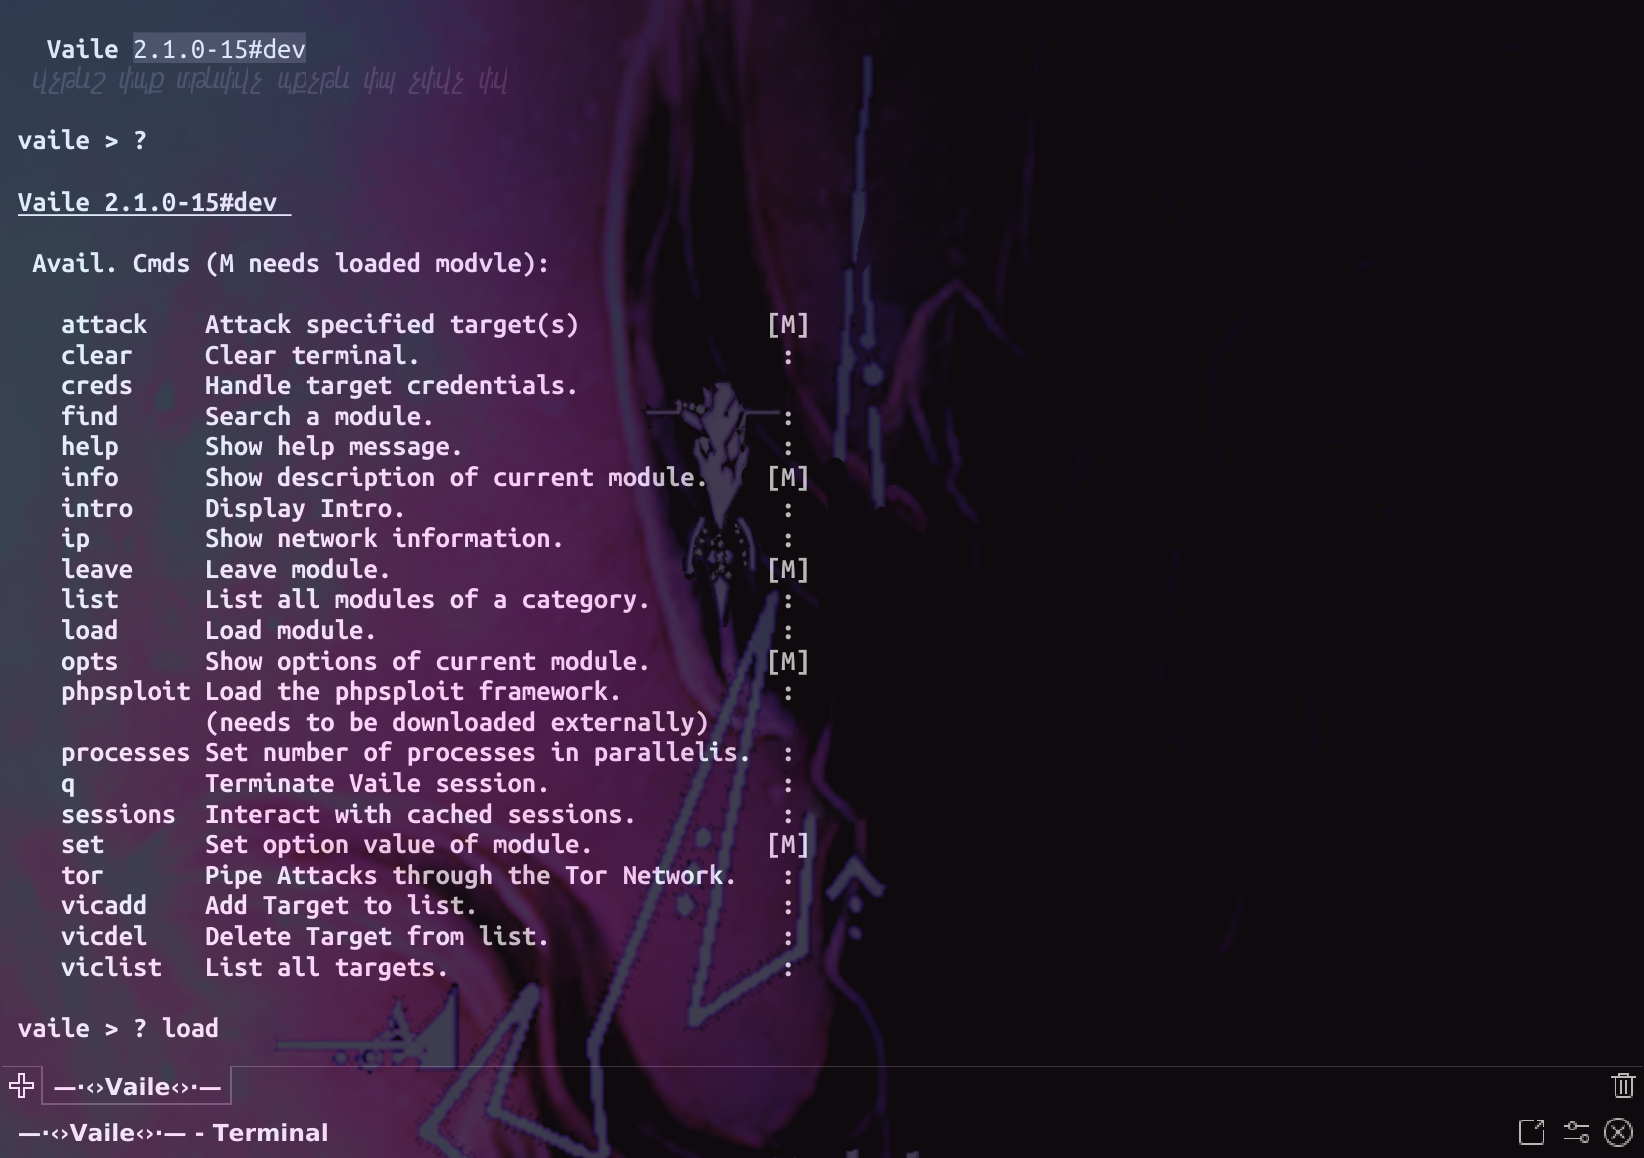
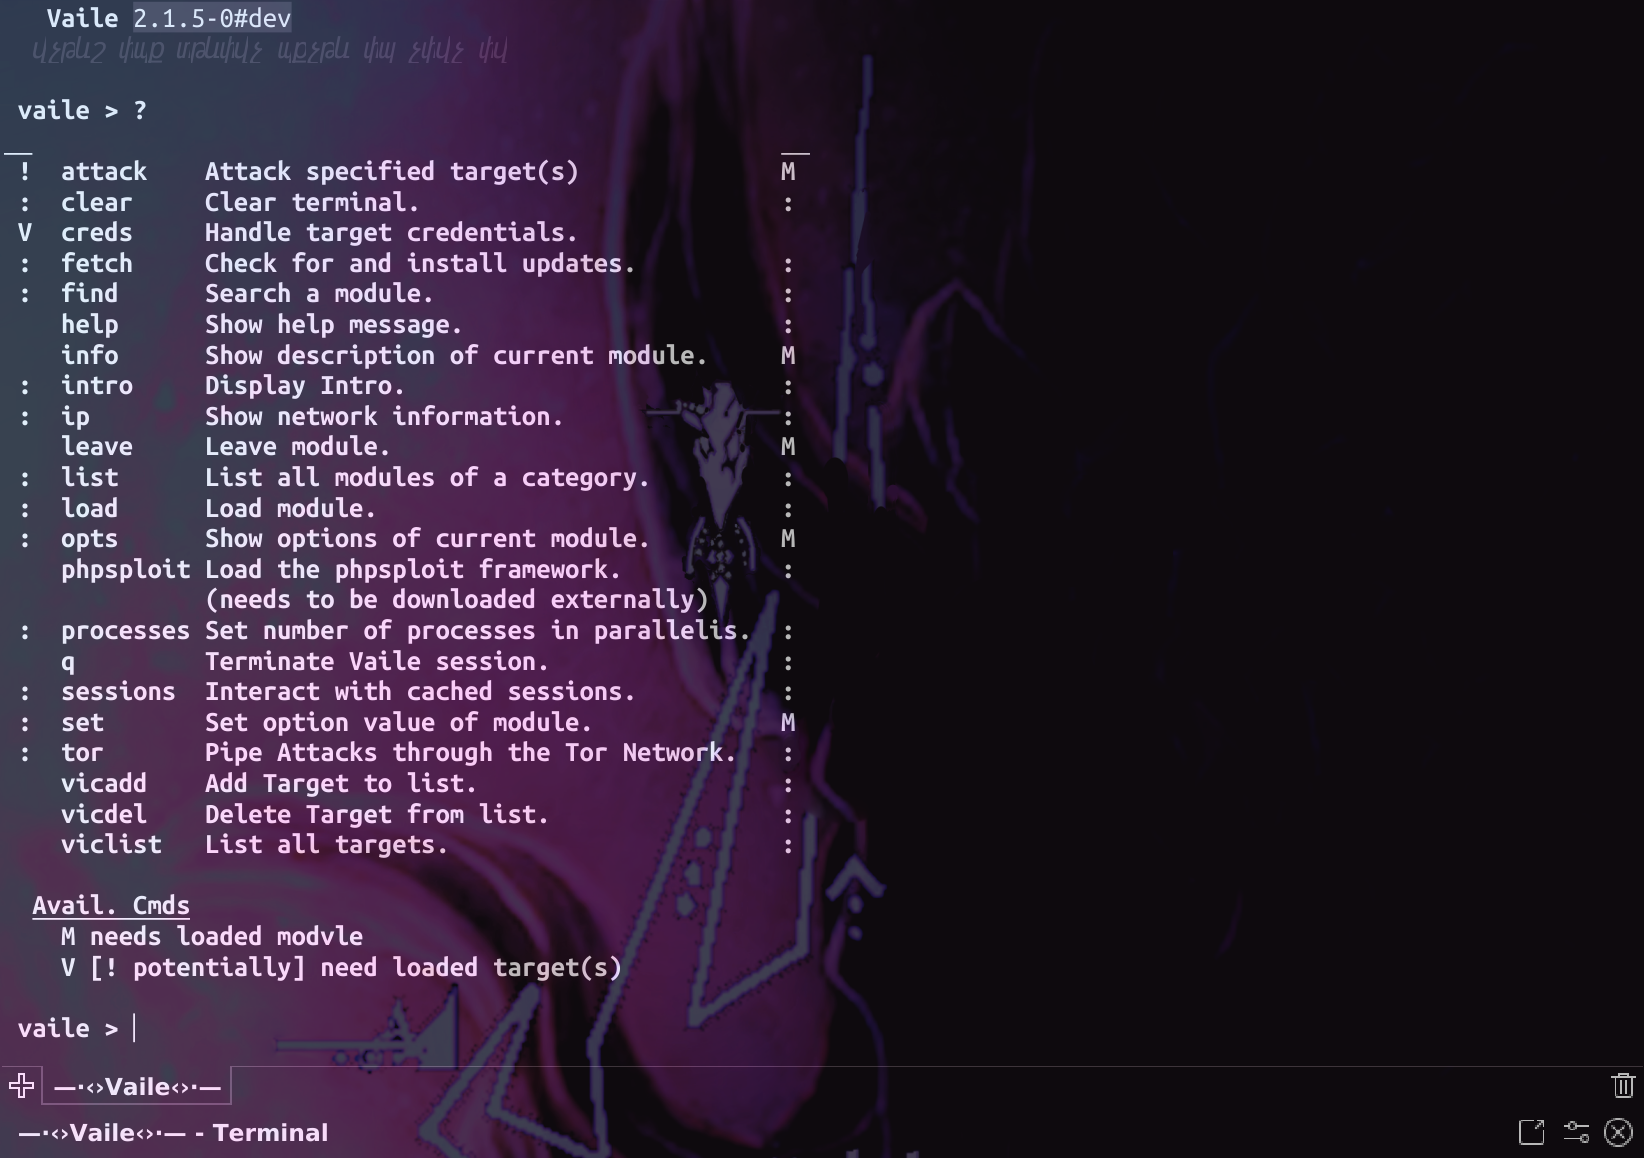
Vaile 2.1.5-0 #fix import errors in automation modules

diff --git a/core/methods/select.py b/core/methods/select.py
@@ -199,7 +199,8 @@ def list(arg,display):
                     "__init__" not in module2 and "colors" not in module2 and "wafimpo" not in module2 and "DNSDumpsterAPI" not in module2 and "Form" not in module2 and "uri" not in module2 and "Crawler" not in module2 and "subdom0x00" not in module2 and "errorsql" not in module2 and "blindsql" not in module2 and "files.subdom" not in module2 and "fileo.subdom" not in module2 and "signatures" not in module2):
                 j = imp.import_module(module2)
                 i = j.searchinfo
-                names.append(module2.split(".")[-1])
+                #names.append(module2.split(".")[-1])
+                names.append(module2)
                 descs.append(i)
                 if "ActiveRecon" in module2:
                     activenames.append(module2.split(".")[-1])
@@ -288,6 +289,29 @@ def search(inp):
     names = []
     descs = []
 
+    passivenames = []
+    passivedescs = []
+    activenames = []
+    activedescs = []
+    discnames = []
+    discdescs = []
+    scannames = []
+    scandescs = []
+    portnames = []
+    portdescs = []
+    crawlnames = []
+    crawldescs = []
+    misnames = []
+    misdescs = []
+    brutenames = []
+    brutedescs = []
+    severenames = []
+    severedescs = []
+    sploitnames = []
+    sploitdescs = []
+    aidnames = []
+    aiddescs = []
+
     def filematch(id, filenames):
         patt = '.*{}.*'.format(id)
         found = []
@@ -344,18 +368,85 @@ def search(inp):
                     i = j.searchinfo
                     names.append(parsedfile.split(".")[-1])
                     descs.append(i)
+                    if "ActiveRecon" in parsedfile:
+                        activenames.append(parsedfile.split(".")[-1])
+                        activedescs.append(i)
+                    elif "PassiveRecon" in parsedfile:
+                        passivenames.append(parsedfile.split(".")[-1])
+                        passivedescs.append(i)
+                    elif "InfoDisclose" in parsedfile:
+                        discnames.append(parsedfile.split(".")[-1])
+                        discdescs.append(i)
+                    elif "ScanningEnumeration" in parsedfile and "0x01-PortScanning" not in parsedfile and "0x02-WebCrawling" not in parsedfile:
+                        scannames.append(parsedfile.split(".")[-1])
+                        scandescs.append(i)
+                    elif "ScanningEnumeration" in parsedfile and "0x01-PortScanning" in parsedfile:
+                        portnames.append(parsedfile.split(".")[-1])
+                        portdescs.append(i)
+                    elif "ScanningEnumeration" in parsedfile and "0x02-WebCrawling" in parsedfile:
+                        crawlnames.append(parsedfile.split(".")[-1])
+                        crawldescs.append(i)
+                    elif "PassiveRecon" in parsedfile:
+                        names.append(parsedfile.split(".")[-1])
+                        descs.append(i)
+                    elif "SploitLoot" in parsedfile:
+                        sploitnames.append(parsedfile.split(".")[-1])
+                        sploitdescs.append(i)
+                    elif "Aid" in parsedfile:
+                        aidnames.append(parsedfile.split(".")[-1])
+                        aiddescs.append(i)
+                    elif "VlnAnalysis.Severe" in parsedfile:
+                        severenames.append(parsedfile.split(".")[-1])
+                        severedescs.append(i)
+                    elif "VlnAnalysis.Other" in parsedfile:
+                        brutenames.append(parsedfile.split(".")[-1])
+                        brutedescs.append(i)
+                    elif "VlnAnalysis.Misconfig" in parsedfile:
+                        misnames.append(parsedfile.split(".")[-1])
+                        misdescs.append(i)
             except ImportError:
                 pass
 
-    t = table.Texttable()
-    headings = ["Modvle", "Desc."]
-    t.header(headings)
-    t.set_chars(["—","|","+","—"])
-    t.set_deco(table.Texttable.HEADER)
-    for row in zip(names, descs):
-        t.add_row(row)
-    s = t.draw()
-    print("\n" + s + "\n")
+    if len(passivenames) > 0 or len(activenames) > 0 or len(discdescs) > 0:
+        prnt.posint("Phase 1")
+        if len(passivenames) > 0:
+            cprint("OSINT/Footprinting: ","Passive Recon")
+            listdisplay(passivenames, passivedescs)
+        if len(activenames) > 0:
+            cprint("OSINT/Footprinting: ","Active Recon")
+            listdisplay(activenames, activedescs)
+        if len(discnames) > 0:
+            cprint("OSINT/Footprinting: ","Information Disclosure")
+            listdisplay(discnames, discdescs)
+    if len(scannames) > 0 or len(portnames) > 0 or len(crawldescs) > 0:
+        prnt.pscan("Phase 2")
+        if len(scannames) > 0:
+            cprint("Scanning/Enumeration: ","General Scanning")
+            listdisplay(scannames, scandescs)
+        if len(portnames) > 0:
+            cprint("Scanning/Enumeration: ","Port Scanners")
+            listdisplay(portnames, portdescs)
+        if len(crawldescs) > 0:
+            cprint("Scanning/Enumeration: ","Web Crawlers")
+            listdisplay(crawlnames, crawldescs)
+    if len(severenames) > 0 or len(misnames) > 0 or len(brutedescs) > 0:
+        prnt.pvln("Phase 3")
+        if len(misnames) > 0:
+            cprint("Vulnerability Analysis: ","Misconfiguration")
+            listdisplay(misnames, misdescs)
+        if len(severenames) > 0:
+            cprint("Vulnerability Analysis: ","Severe Issues")
+            listdisplay(severenames, severedescs)
+        if len(brutedescs) > 0:
+            cprint("Vulnerability Analysis: ","Weak Credentials")
+            listdisplay(brutenames, brutedescs)
+    if len(sploitdescs) > 0:
+        prnt.psploit("Phase 4")
+        cprint("Exploitation: ","Exploits")
+        listdisplay(sploitnames, sploitdescs)
+    if len(aidnames) > 0:
+        print("\nAdditional Modules")
+        listdisplay(aidnames, aiddescs)
 
 def bareimport(inp):
     success = False

diff --git a/core/methods/print.py b/core/methods/print.py
@@ -30,21 +30,60 @@ from core.Core.colors import *
 def loadstyle():
     os.system('clear')
     red_bold = R
-    reset = W
-    #loading = "Vaile Attack Load."
-    loading = "——·‹› Vaile ‹›·——"
+    cursive = color.END + "\033[3m"
+    reset = cursive
+    loading = "Loading console.."
+    swappy = "Loading console.."
+    display = """
+
+
+
+
+
+____, __{}
+   + ;    
+   .:,    
+     ’    
+    .     {}‹›{}  {}V A I L E{}  {}‹›{}
+    + ;   {}{}{}
+    ;.    
+     ;
+     ;
+     ’   
+    """.format(color.END, R, color.END, RB, color.END, R, C, cursive, swappy, color.END)
+    #loading = "——·‹› Vaile ‹›·——"
     action = 0
     while action < 2:
         for i, char in enumerate(loading):
             if i == 0:
-                print("%s%s%s%s" % (red_bold, char.swapcase(), reset, loading[1:]))
+                swappy = "%s%s%s%s" % (red_bold, char.swapcase(), reset, loading[1:])
+                #print("%s%s%s%s" % (red_bold, char.swapcase(), reset, loading[1:]))
             elif i == 1:
                 old_loading = loading[0].swapcase()
-                print("%s%s%s%s%s" % (old_loading, red_bold, char.swapcase(), reset, loading[2:]))
+                swappy = "%s%s%s%s%s" % (old_loading, red_bold, char.swapcase(), reset, loading[2:])
+                #print("%s%s%s%s%s" % (old_loading, red_bold, char.swapcase(), reset, loading[2:]))
             elif i == i:
-                # old_loading = loading[-0:i].swapcase()
                 old_loading = loading[-0:i]
-                print("%s%s%s%s%s" % (old_loading, red_bold, char.swapcase(), reset, loading[i + 1:]))
+                swappy = "%s%s%s%s%s" % (old_loading, red_bold, char.swapcase(), reset, loading[i + 1:])
+                #print("%s%s%s%s%s" % (old_loading, red_bold, char.swapcase(), reset, loading[i + 1:]))
+            display = """
+
+
+
+
+
+____, __{}
+   + ;    
+   .:,    
+     ’    
+    .     {}‹›{}  {}V A I L E{}  {}‹›{}
+    + ;   {}{}{}
+    ;.    
+     ;
+     ;
+     ’   
+            """.format(color.END, R, color.END, RB, color.END, R, C, cursive, swappy, color.END)
+            print(display)
             time.sleep(0.1)
             os.system('clear')
         action += 1
@@ -297,11 +336,14 @@ def pbrute(mod):
 
 def pleak(mod):
     print("""
-▄▄ 
-██▌  {}I N F D I S C{}
-▐█·  
-.▀    {}{}{}
- ▀ 
+   ,_       
+ ,'  `\\,_   
+ |_,-'_)    
+ /##c '\\  (   {}I N F D I S C{}
+' |'  -{{.  )
+  /\\__-' \\[]        {}{}{}
+ /`-_`\\     
+ '     \\ 
 """.format(color.END, C, RC, title(mod), C))
 
 def cprint(text1, text2):

diff --git a/modules/Aid/honeypot.py b/modules/Aid/honeypot.py
@@ -10,7 +10,8 @@
 
 
 import socket
-import requests
+#import requests
+from core.methods.tor import session
 import time
 from core.Core.colors import *
 from files.API_KEYS import SHODAN_API_KEY
@@ -19,15 +20,30 @@ info = "This module calculates the probability that the target is a honeypot usi
 searchinfo = "HoneyScore Calculator"
 properties = {}
 
-def honeypot(web):
+def title():
+    print("""{}
+                __/   _
+        {}.__  __.{}  \\__/   __
+         {}.-`'-.{}   /  \\__/
+     {}.-.(  oo  ).-.{} _/  \\__/   {}H O N E Y P O T{}
+ __ {}:   \\".~~."/   ;{} \\__/
+/  \\_{}`.  Y`--'Y  .'{} _/  \\__   {}D E T E C T O R{}
+ __/  {}`./======\\.'{}   \\__/  \\_
+/  \\__/ {}\\======/{}  \\__/  \\__/
+\\__/   {}(_`----'_){}    \\__/  \\ ({}shodan{}){}
+    """.format(color.END,C, color.END,C, color.END,C, color.END,RC,color.END,C, color.END,C, color.END,RC,color.END,C, color.END,C, color.END,C, color.END,RB,color.END,C))
 
+
+def honeypot(web):
+    title()
     #print(R+'    ===================================')
-    print(R+'\n     H O N E Y P O T   D E T E C T O R')
-    print(R+'    ––·‹›·––·‹›·––·‹›·––·‹›·––·‹›·––·‹›')
+    #print(R+'\n     H O N E Y P O T   D E T E C T O R')
+    #print(R+'    ––·‹›·––·‹›·––·‹›·––·‹›·––·‹›·––·‹›')
                  
     print(GR+' [*] Configuring APi request...')
     time.sleep(0.7)
     print(O+' [!] Reading APi Key...')
+    requests = session()
     if SHODAN_API_KEY != '':
         print(G+' [+] Key Found : '+O+SHODAN_API_KEY)
         web0 = web.split('//')[1]

diff --git a/Vaile.py b/Vaile.py
@@ -128,7 +128,7 @@ class VainShell(Cmd):
                 try:
                     if ".val" in session or "--val" in session:
                         session = session.replace("--val","").strip()
-                        print(session)
+                        #print(session)
                         self.sessionhelper(session)
                         print(" [+] Restored VAL session: {}".format(session))
                     else:
@@ -667,7 +667,7 @@ def main():
             prnt.bannerbelownew()
         VainShell().cmdloop()
         #print(R + "[Vaile] " + "\033[0m" + color.UNDERLINE + "\033[1m" + "Alvida, my friend!" + color.END)
-        print(R + "[Vaile] " + "\033[0m" + color.END + "Alvida, mind strider")
+        print(R + "[Vaile] " + "\033[0m" + color.END + "Alvida, my chosen")
 
 if __name__ == '__main__':
     main()

diff --git a/core/variables.py b/core/variables.py
@@ -45,7 +45,7 @@ global dlist
 global interface
 
 version = "2.1"
-e_version = "2.1.0-51#dev"
+e_version = "2.1.5-0#dev"
 module = ""
 targets = []
 processes = 8

diff --git a/README.md b/README.md
@@ -307,7 +307,7 @@ Lets see some screenshots of Vaile in action:
 
 ### Version:
 ```
-v2.1.0-51 [latest release] [#stable]
+v2.1.5-0 [latest release] [#stable]
 ```
 
 ### Disclaimer:
